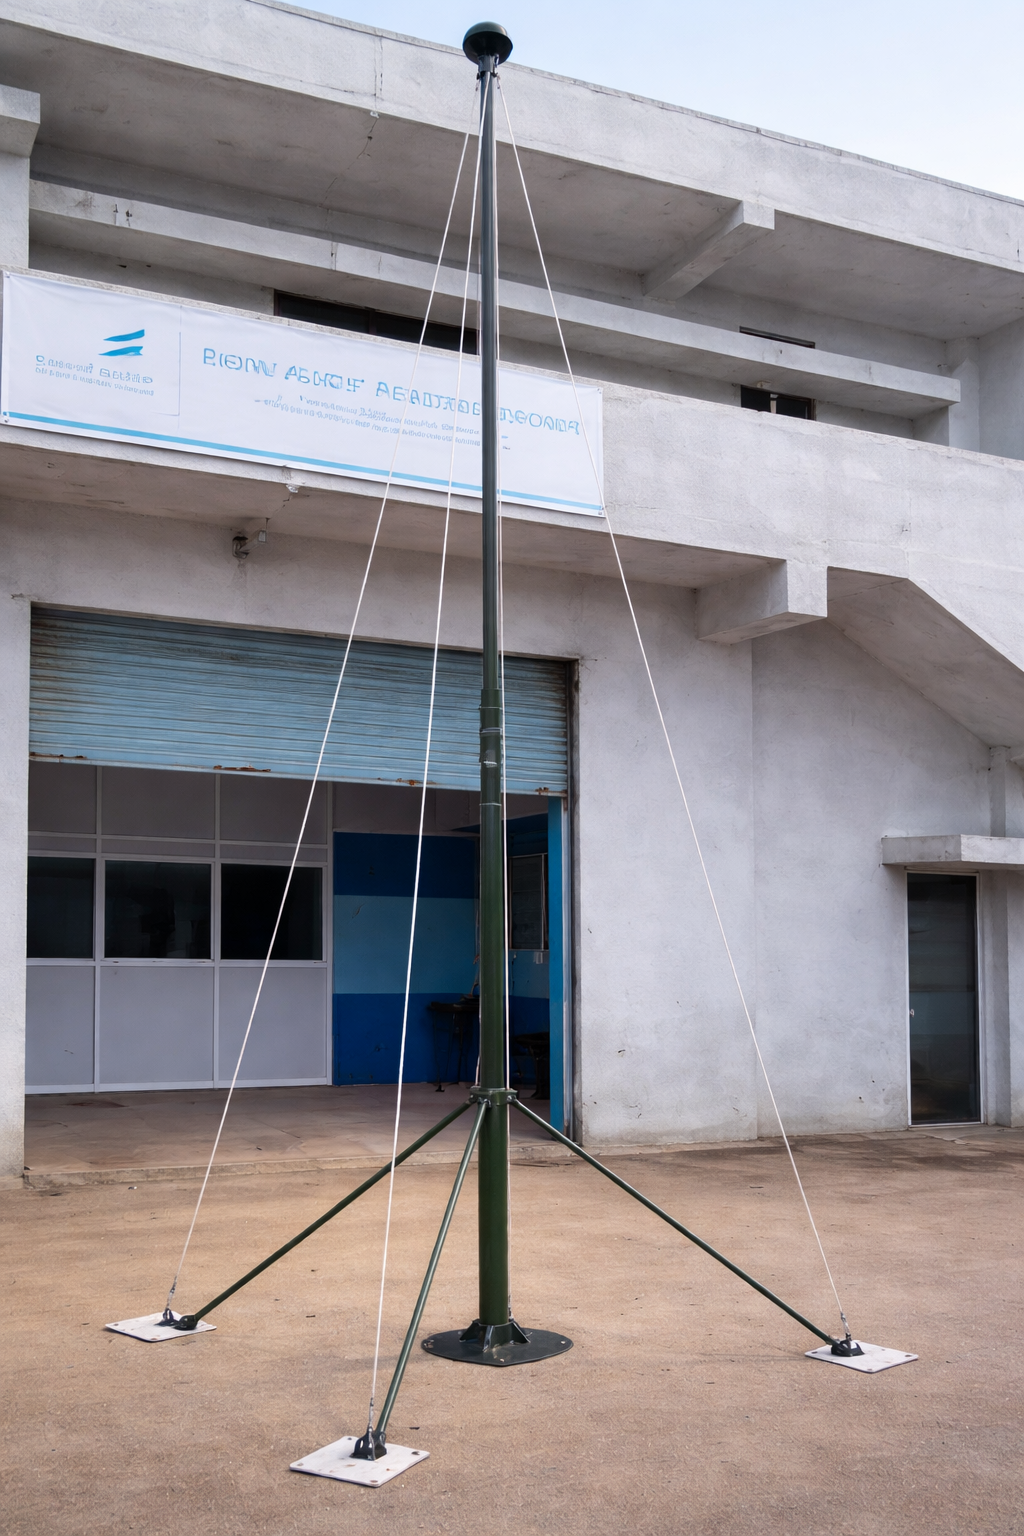
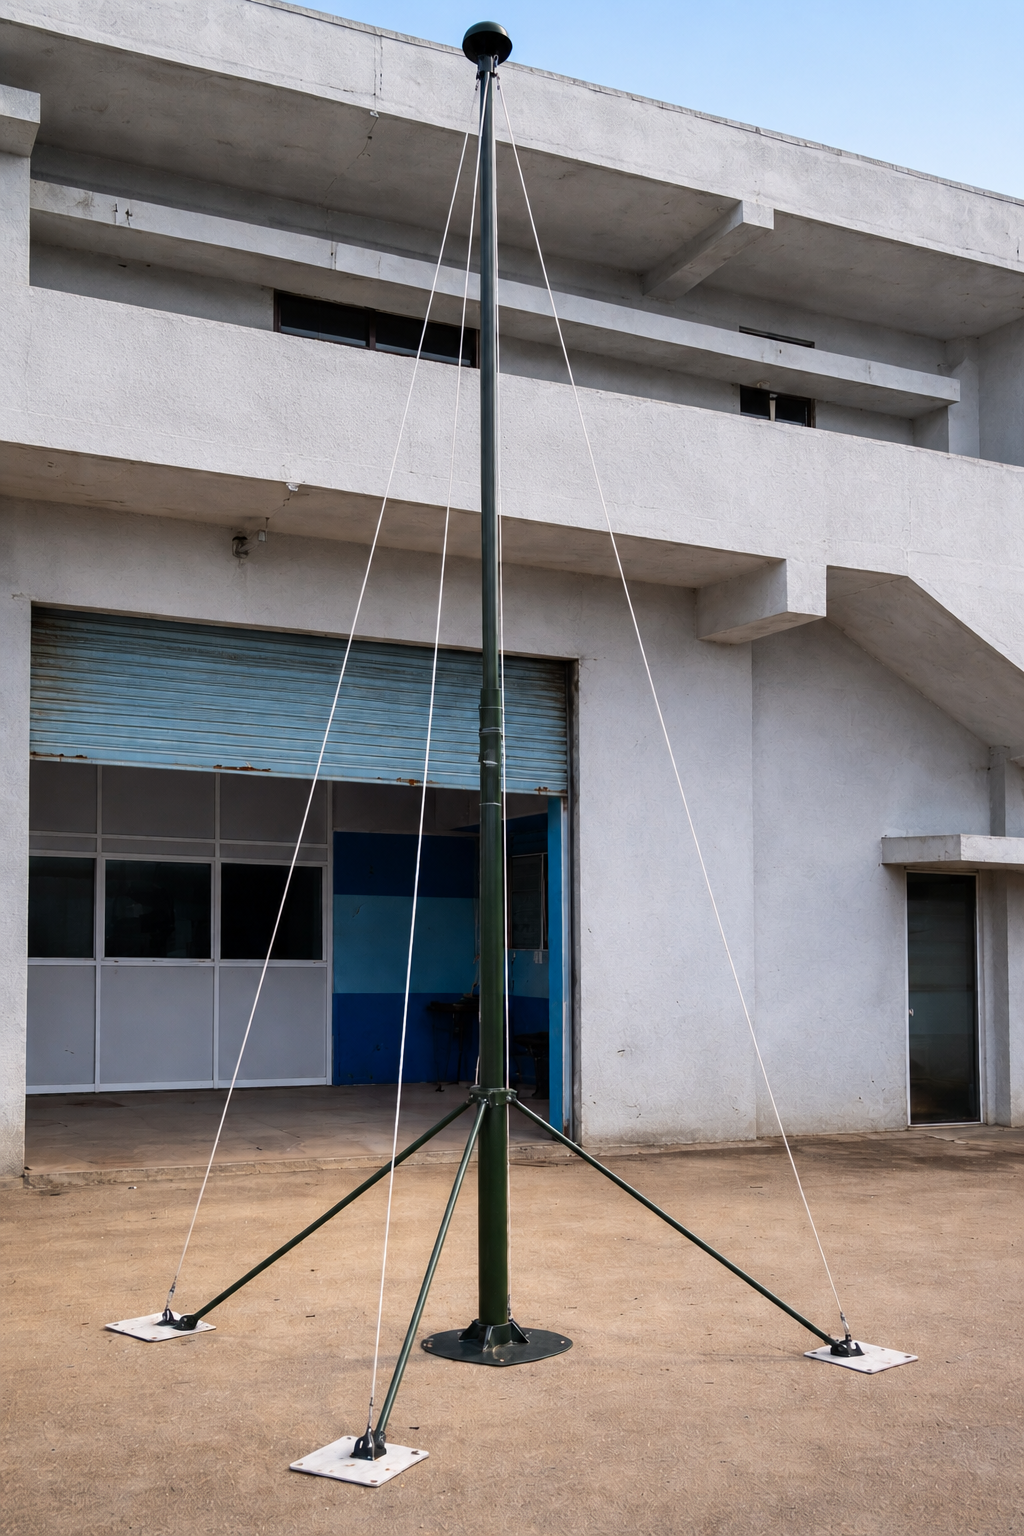
feat: align projects list with new background-cleaned PNG assets

diff --git a/src/data/projectsData.ts b/src/data/projectsData.ts
@@ -255,7 +255,7 @@ export const PROJECTS: Project[] = [
     title: "5m Telescopic Mast with Pan & Tilt",
     category: "Telescopic Mast",
     description: "5 m telescopic mast equipped with a pan & tilt system for versatile positioning.",
-    img: "/AllProjects/Telescopic Mast/5m Telescopic Mast with Pan & Tilt.jpg",
+    img: "/AllProjects/Telescopic Mast/5m Telescopic Mast with Pan & Tilt.png",
     specs: {
       erectedHeight: "5.0 m",
       retractedHeight: "2.0 m",
@@ -337,7 +337,7 @@ export const PROJECTS: Project[] = [
     title: "Inverted Telescopic Mast (6m)",
     category: "Telescopic Mast",
     description: "Inverted Telescopic Mast (6m) for specialized installations.",
-    img: "/AllProjects/Telescopic Mast/Inverted Telescopic Mast – 6m.jpg",
+    img: "/AllProjects/Telescopic Mast/Inverted Telescopic Mast – 6m.png",
     specs: { erectedHeight: "6m", retractedHeight: "1.8m", headLoad: "30 Kg", totalWeight: "210 Kg" }
   },
   {
@@ -372,9 +372,9 @@ export const PROJECTS: Project[] = [
     title: "Hydraulic Scissor Lift",
     category: "Industrial Hydraulics & SPM",
     description: "Precision-engineered scissor lifts, ranging from motorized (500 kg payload) to heavy-duty systems (10m height, 1-ton payload) for industrial lifting applications.",
-    img: "/AllProjects/Industrial Hydraulics & SPM Division/Heavy Duty Scissor Lifts & Hydraulics & Power packs3.jpg",
+    img: "/AllProjects/Industrial Hydraulics & SPM Division/Heavy Duty Scissor Lifts & Hydraulics & Power packs3.png",
     gallery: [
-      "/AllProjects/Industrial Hydraulics & SPM Division/Heavy Duty Scissor Lifts & Hydraulics & Power packs3.jpg",
+      "/AllProjects/Industrial Hydraulics & SPM Division/Heavy Duty Scissor Lifts & Hydraulics & Power packs3.png",
       "/AllProjects/Industrial Hydraulics & SPM Division/EA-Heavy Duty Scissor Lifts & Hydraulics & Power packs2 (500 kg Payload).png",
       "/AllProjects/Industrial Hydraulics & SPM Division/ea-heavy-duty-scissor-lift.png"
     ]
